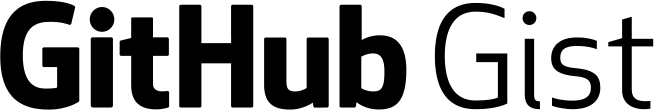
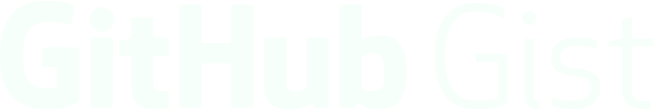
zmdifications

diff --git a/src/components/TextField/TextField.js b/src/components/TextField/TextField.js
@@ -9,10 +9,9 @@ export default class TextField extends React.Component {
     id: PropTypes.string,
     className: PropTypes.string,
     onChange: PropTypes.func,
+    onclick: PropTypes.func,
     onEnter: PropTypes.func,
     onEsc: PropTypes.func,
-    defaultValue: PropTypes.string,
-    value: PropTypes.string,
     placeholder: PropTypes.string,
   };
 
@@ -21,16 +20,17 @@ export default class TextField extends React.Component {
     id: '',
     className: '',
     onChange: f => f,
+    onclick: f => f,
     onEnter: f => f,
     onEsc: f => f,
-    defaultValue: '',
-    value: '',
-    placeholder: 'Enter user name',
+    placeholder: 'Enter username',
   };
 
   constructor(props, context) {
     super(props, context);
-
+    this.state = {
+      value: '',
+    };
     this.handleChange = this.handleChange.bind(this);
     this.handleKeyDown = this.handleKeyDown.bind(this);
   }
@@ -41,6 +41,7 @@ export default class TextField extends React.Component {
   handleChange(event) {
     if (this.props.onChange) {
       let value = event.target.value;
+      this.setState({ value });
 
       if (this.props.type === 'number') value = value ? +value : null;
 
@@ -66,10 +67,11 @@ export default class TextField extends React.Component {
       id,
       type,
       className,
-      defaultValue,
-      value,
       placeholder,
+      onclick,
     } = this.props;
+
+    const { value } = this.state;
 
     return (
       <div className={styles.inputWrapper}>
@@ -77,14 +79,12 @@ export default class TextField extends React.Component {
           type={type}
           id={id}
           className={className}
-      // defaultValue={defaultValue}
-      // value={value}
           onKeyDown={this.handleKeyDown}
           onChange={this.handleChange}
-          autoFocus
           placeholder={placeholder}
+          autoFocus
         />
-        <i className={classNames('fa fa-search',styles.icon)} />
+        <i className={classNames('fa fa-search', styles.icon)} onClick={() => onclick(value)} />
       </div>
     );
   }

diff --git a/src/components/Home/Home.js b/src/components/Home/Home.js
@@ -1,37 +1,36 @@
-import React, { Component, Fragment } from 'react';
+import PropTypes from 'prop-types';
+import React, { Fragment } from 'react';
 import connect from 'react-redux/es/connect/connect';
 import styles from '../PublicGists/PublicGists.css';
 import TextField from '../TextField/TextField';
 import { loadPublicGistsOfUser } from '../../actions/action-creator';
 import { selectGists } from '../PublicGists/gists.selector';
 import banner from '../../assets/banner.png';
-import { Footer } from '../Footer/Footer';
+import Footer from '../Footer/Footer';
 
-class Home extends Component {
-  render() {
-    return (
-      <Fragment>
-        <div className={styles.bannerWrapper}>
-          <img className={styles.bannerImg} src={banner} />
-        </div>
-          <div className={styles.searchWrapper}>
-            <span className={styles.searchHint}>
-            Search users' gist by typing username and hit enter
-            </span>
-            <TextField
-              type="text"
-              className={styles.searchBox}
-              onEnter={value => this.props.dispatch(loadPublicGistsOfUser(value))}
-            />
-          </div>
-        <Footer />
-      </Fragment>
-    );
-  }
-}
+const Home = ({ dispatch }) => (
+  <Fragment>
+    <div className={styles.bannerWrapper}>
+      <img className={styles.bannerImg} src={banner} />
+    </div>
+    <div className={styles.searchWrapper}>
+        <span className={styles.searchHint}>
+            Search gists by typing username and hit enter
+        </span>
+      <TextField
+        onclick={value => dispatch(loadPublicGistsOfUser(value))}
+        type="text"
+        className={styles.searchBox}
+        onEnter={value => dispatch(loadPublicGistsOfUser(value))}
+      />
+    </div>
+    <Footer />
+  </Fragment>
+);
 
-Home.propTypes = {};
-Home.defaultProps = {};
+Home.propTypes = {
+  dispatch: PropTypes.func.isRequired,
+};
 
 const mapStateToProps = state => selectGists(state);
 export default connect(mapStateToProps)(Home);

diff --git a/src/components/PublicGists/PublicGists.css b/src/components/PublicGists/PublicGists.css
@@ -2,6 +2,7 @@
   padding: 50px 0 0 80px;
   position: relative;
   height: 100%;
+  background: #191c1f;
 }
 
 .bannerImg {
@@ -12,7 +13,7 @@
 }
 
 .searchBox {
-  font-size: 18px;
+  font-size: 15px;
   width: 705px;
   background-color: #F1F3F4;
   border: none;
@@ -27,7 +28,7 @@
 }
 
 .searchHint {
-  color: #c3c3c3;
+  color: #2f363d;
   font-size: 16px;
   margin-bottom: 10px;
   display: block;
@@ -70,5 +71,6 @@
 }
 
 .bannerWrapper {
-  background-color: #f1f3f4b3;
+  background-color: #2f363d;
+  height: 380px;
 }

diff --git a/src/reducers/gistsReducer.js b/src/reducers/gistsReducer.js
@@ -10,7 +10,7 @@ import {
 
 const initialState = fromJS({
   user: {},
-  publicGists: {},
+  publicGists: fromJS({}),
   error: '',
 });
 
@@ -33,7 +33,7 @@ export default function gistsReducer(state = initialState, action) {
       return state.update('error', () => fromJS(action.error));
 
     case ACTION_HIDE_ERROR:
-      return state.update('error', () => false);
+      return state.update('error', () => '');
 
     case ACTION_CLEAR_GISTS:
       return state.update('publicGists', () => fromJS({}));

diff --git a/src/components/Footer/Footer.js b/src/components/Footer/Footer.js
@@ -2,13 +2,15 @@ import React from 'react';
 import * as styles from './Footer.css';
 import olx from '../../assets/olx-logo-en.png';
 
-export const Footer = () => (
+const Footer = () => (
   <div className={styles.container}>
     <div className={styles.wrapper}>
       <div className={styles.logoWrapper}>
-        <img src={olx} />
+        <img src={olx}/>
         <span>© dubizzle.com 2018, All Rights Reserved.</span>
       </div>
     </div>
   </div>
 );
+
+export default Footer;

diff --git a/src/global.css b/src/global.css
@@ -13,7 +13,6 @@ body {
     font-family: 'Muli', 'Open Sans', sans-serif;
     -webkit-font-smoothing: antialiased;
     -moz-osx-font-smoothing: grayscale;
-    background: #191c1f;
     background-size: cover;
     color: #fff;
     font-size: 14px;

diff --git a/src/components/Footer/Footer.css b/src/components/Footer/Footer.css
@@ -3,9 +3,10 @@
     bottom: 0;
     width: 100%;
 }
+
 .wrapper{
     height: 75px;
-    background-color: #f1f3f4b3;
+    background-color: #2f363d;
     padding: 10px 60px;
     position: relative;
 

diff --git a/src/components/Tag/Tag.css b/src/components/Tag/Tag.css
@@ -1,6 +1,6 @@
 .tag {
   background-color: #00d1ff;
-  padding: 4px 10px;
+  padding: 4px 5px;
   border-radius: 3px;
   font-size: 10px;
   color: #191c1e;

diff --git a/src/components/ErrorPopup/ErrorPopup.css b/src/components/ErrorPopup/ErrorPopup.css
@@ -13,5 +13,5 @@
   font-size: 13px;
   background: rgb(210, 88, 84);
   display: inline-block;
-  padding: 8px 15px 8px;
+  padding: 8px 15px 12px;
 }

diff --git a/src/components/Gist/Gist.css b/src/components/Gist/Gist.css
@@ -1,6 +1,6 @@
 .gist {
   width: 400px;
-  min-height: 200px;
+  height: 220px;
   background-color: #23292d;
   border-radius: 8px;
   color: #fff;
